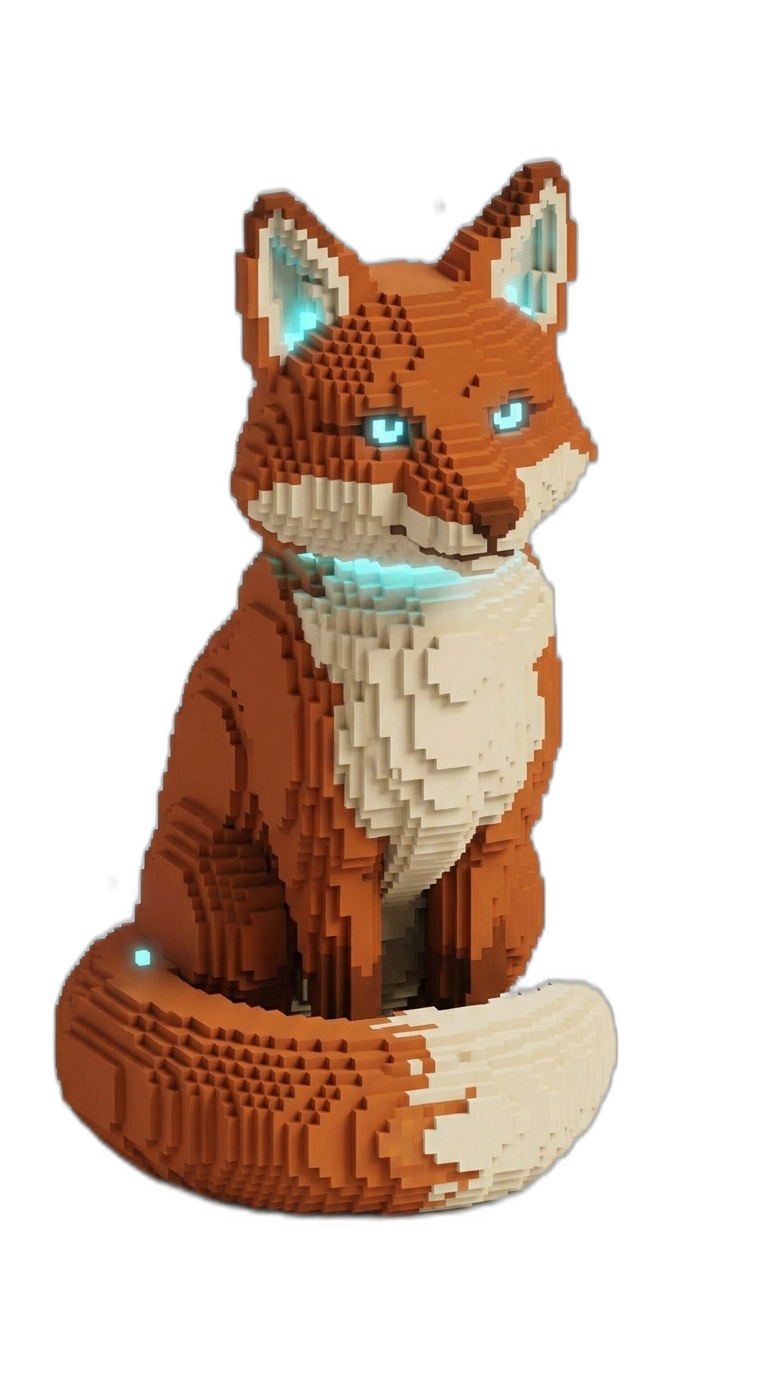
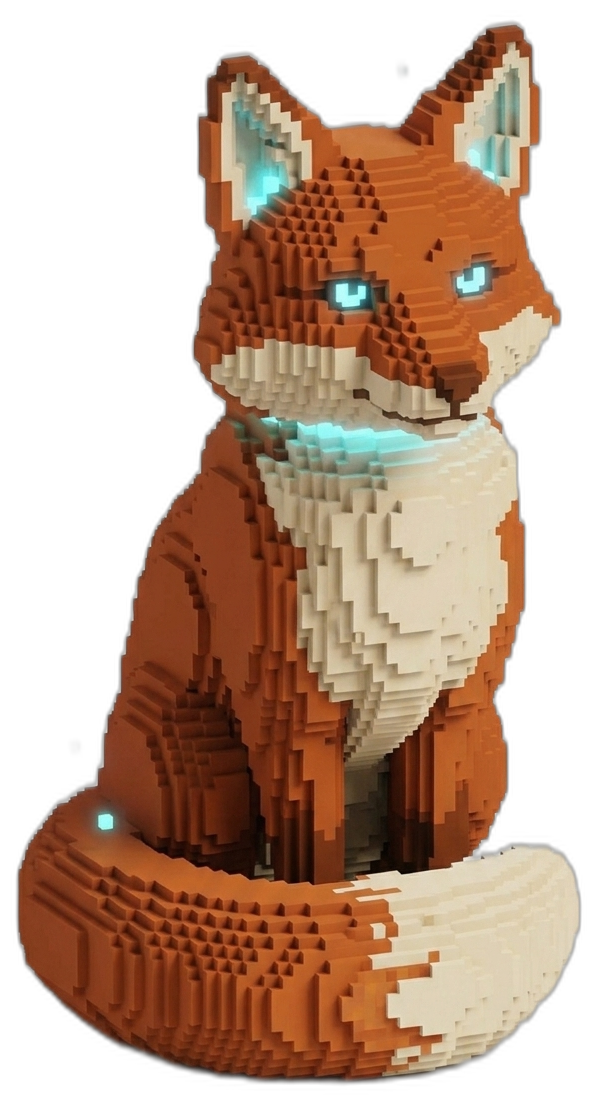
Fix fox mascot clipping and overlap in CTA card
The fox image was nested inside GlowCard, whose overflow-hidden (needed
for the mouse-glow sheen) clipped its head off, and the negative offset
wasn't enough to clear the "Entry closed" text below it. Move the fox
to a sibling of the card, crop its transparent padding, and give it a
real gap from the status pill above so the full mascot renders cleanly.

diff --git a/src/sections/Contact.jsx b/src/sections/Contact.jsx
@@ -20,9 +20,9 @@ function Contact() {
         </div>
       </div>
 
-      <div className="relative pt-16 pb-28 px-4 sm:px-8 overflow-hidden">
+      <div className="relative pt-16 pb-28 px-4 sm:px-8">
         <div
-          className="absolute inset-0 bg-cover bg-center"
+          className="absolute inset-0 bg-cover bg-center rounded-sm overflow-hidden"
           style={{ backgroundImage: `url(${ctaBackground})` }}
           aria-hidden="true"
         />
@@ -31,7 +31,7 @@ function Contact() {
           aria-hidden="true"
         />
 
-        <div className="relative flex justify-center mb-3">
+        <div className="relative flex justify-center mb-32 sm:mb-36">
           <span className="inline-flex items-center gap-2 font-mono text-xs text-muted uppercase tracking-[0.3em]">
             <span className="w-1.5 h-1.5 bg-brass" />
             Status: recording now
@@ -39,15 +39,15 @@ function Contact() {
         </div>
 
         <FadeIn as="div" className="relative max-w-2xl mx-auto">
-          <GlowCard className="bg-panel/90 backdrop-blur-sm border border-muted/20 px-8 py-12 sm:px-12 text-center shadow-2xl shadow-black/50">
-            <img
-              src={ctaFox}
-              alt=""
-              aria-hidden="true"
-              className="absolute -top-24 sm:-top-28 left-1/2 -translate-x-1/2 w-24 sm:w-28 h-auto drop-shadow-[0_16px_20px_rgba(0,0,0,0.6)] select-none pointer-events-none"
-              draggable={false}
-            />
+          <img
+            src={ctaFox}
+            alt=""
+            aria-hidden="true"
+            className="absolute bottom-full left-1/2 -translate-x-1/2 mb-[-16px] w-20 sm:w-24 h-auto drop-shadow-[0_16px_20px_rgba(0,0,0,0.6)] select-none pointer-events-none z-10"
+            draggable={false}
+          />
 
+          <GlowCard className="bg-panel/90 backdrop-blur-sm border border-muted/20 px-8 pt-14 pb-12 sm:px-12 sm:pt-16 text-center shadow-2xl shadow-black/50">
             <p className="font-mono text-xs text-muted uppercase tracking-widest mb-4">
               Entry closed &middot; 10
             </p>
